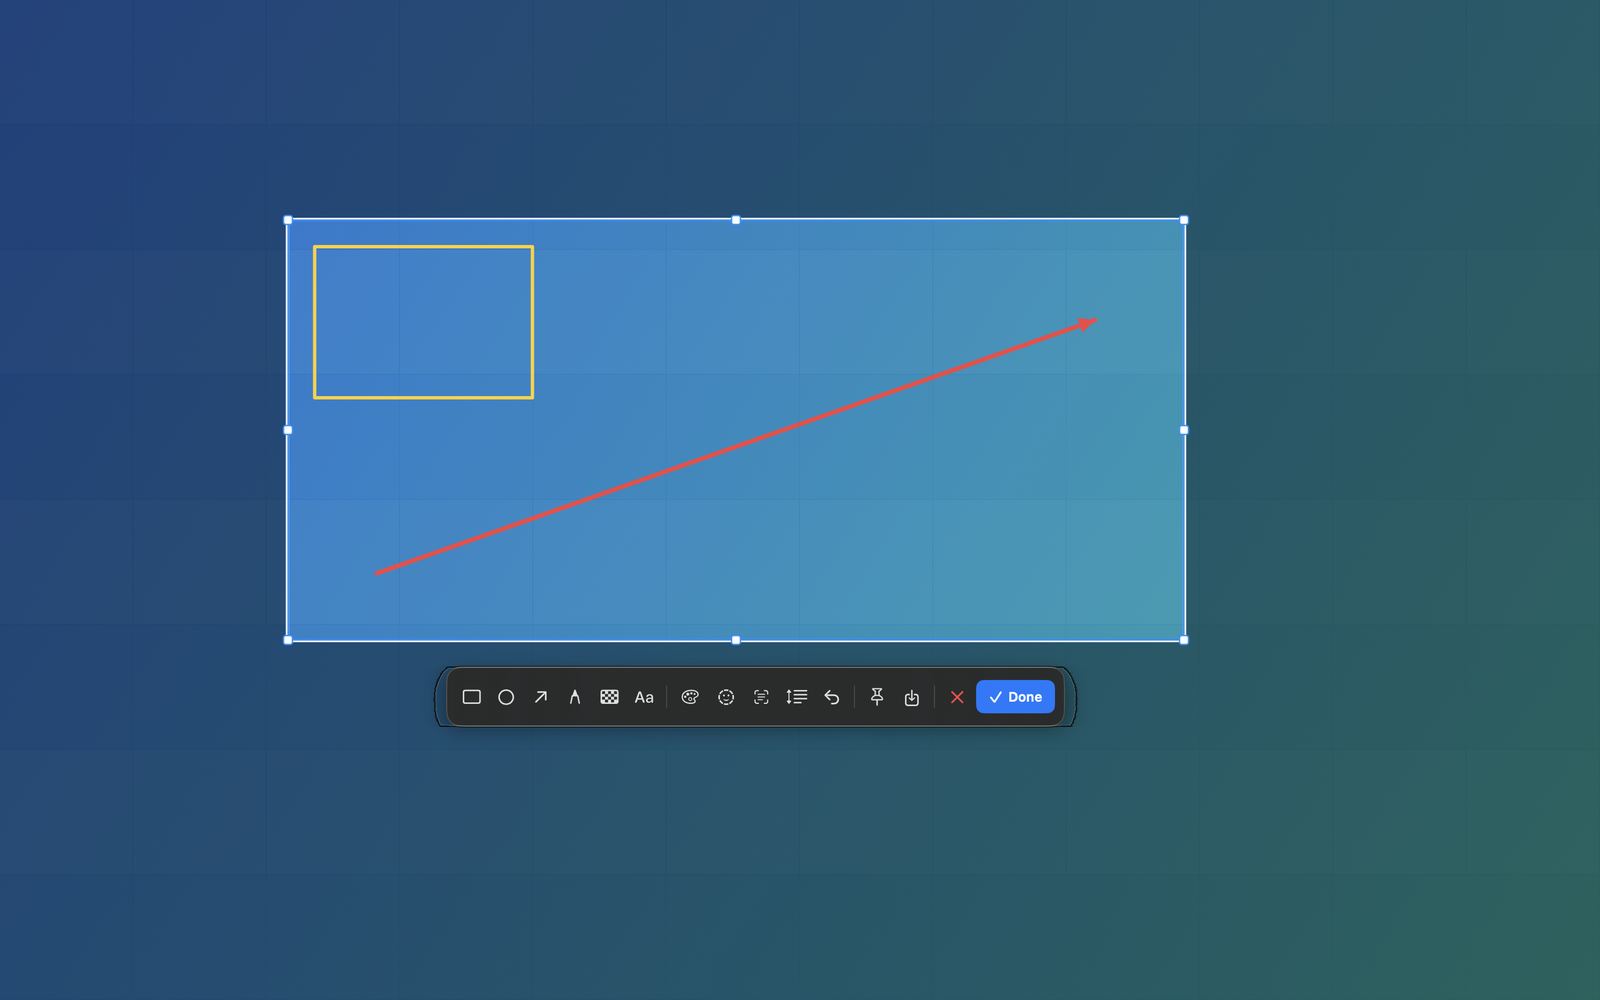
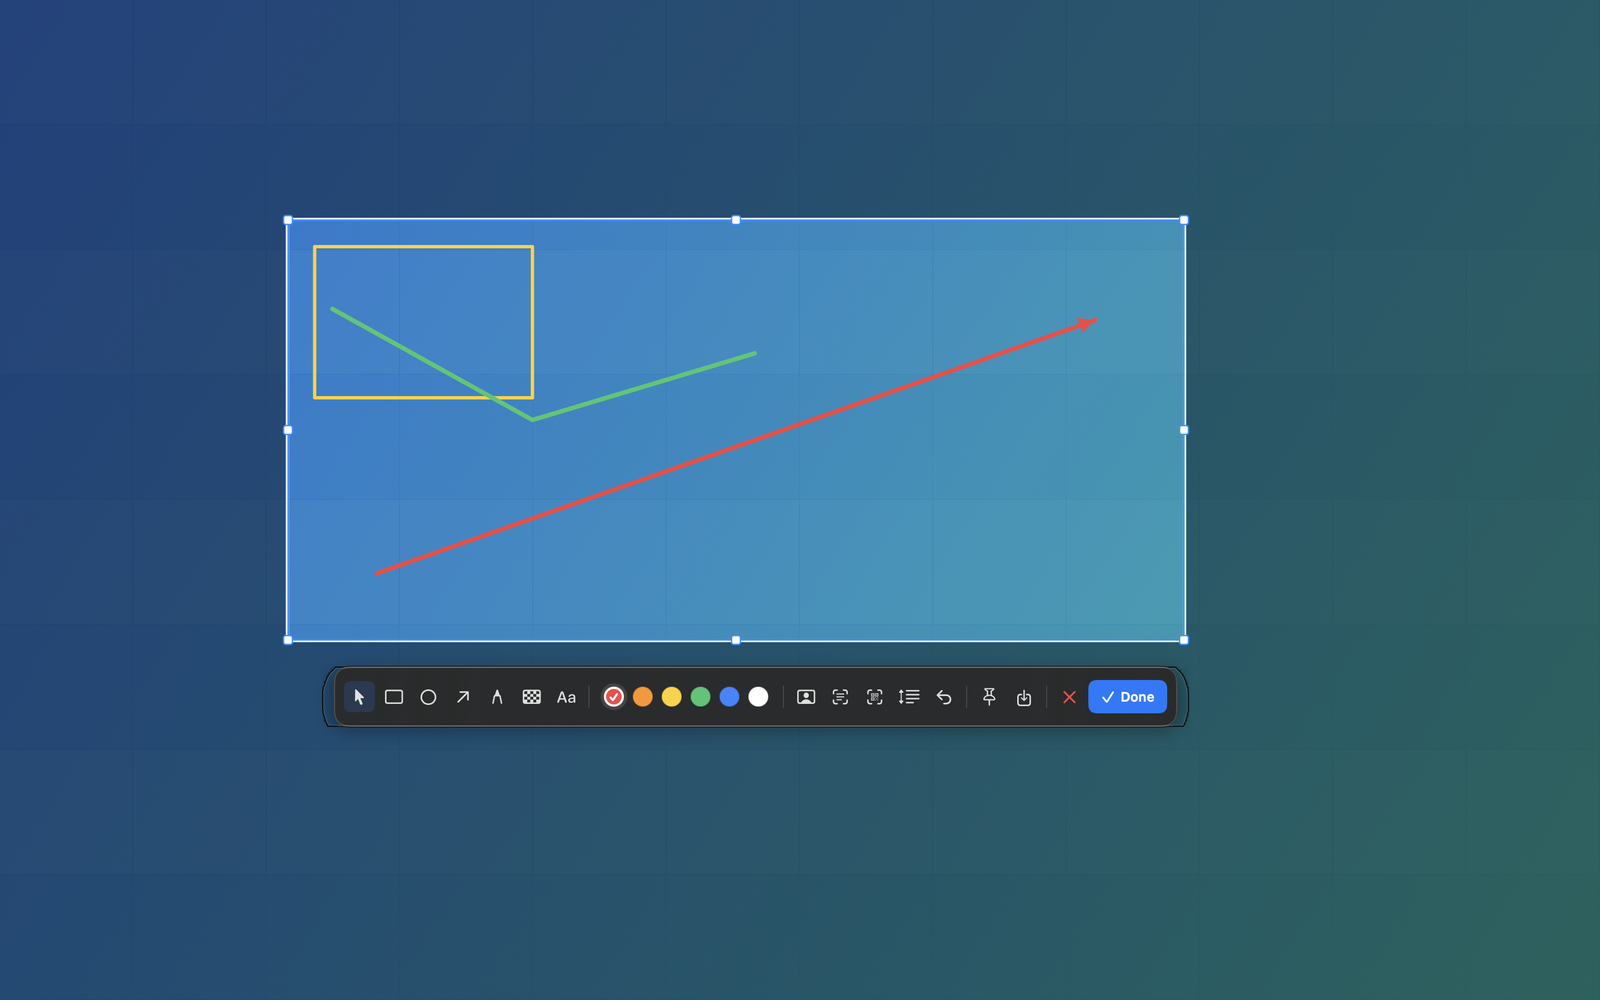
Fix selection dragging, add move tool and inline color palette, clarify AI mask

diff --git a/Sources/ShotDesk/Windows/ToastController.swift b/Sources/ShotDesk/Windows/ToastController.swift
@@ -1,0 +1,90 @@
+import AppKit
+import SwiftUI
+
+private struct ToastView: View {
+    let message: String
+
+    var body: some View {
+        Text(message)
+            .font(.system(size: 12.5, weight: .medium))
+            .foregroundStyle(.primary)
+            .lineLimit(2)
+            .multilineTextAlignment(.center)
+            .padding(.horizontal, 16)
+            .padding(.vertical, 9)
+            .background(
+                Capsule(style: .continuous)
+                    .fill(.ultraThinMaterial)
+                    .overlay(
+                        Capsule(style: .continuous)
+                            .strokeBorder(Color.white.opacity(0.18), lineWidth: 1)
+                    )
+                    .shadow(color: .black.opacity(0.22), radius: 10, y: 4)
+            )
+            .padding(6)
+    }
+}
+
+/// A small non-activating HUD used for short feedback such as "no faces
+/// detected" or "text copied". It never steals focus from the overlay.
+final class ToastController {
+    static let shared = ToastController()
+
+    private var panel: NSPanel?
+    private var hideWorkItem: DispatchWorkItem?
+
+    func show(_ message: String, duration: TimeInterval = 1.8) {
+        guard !message.isEmpty else { return }
+        DispatchQueue.main.async {
+            self.hideWorkItem?.cancel()
+            self.panel?.orderOut(nil)
+            self.panel?.close()
+
+            let panel = NSPanel(
+                contentRect: CGRect(x: 0, y: 0, width: 320, height: 52),
+                styleMask: [.borderless, .nonactivatingPanel],
+                backing: .buffered,
+                defer: false
+            )
+            panel.level = NSWindow.Level(rawValue: NSWindow.Level.statusBar.rawValue + 4)
+            panel.collectionBehavior = [.canJoinAllSpaces, .fullScreenAuxiliary, .stationary, .ignoresCycle]
+            panel.isOpaque = false
+            panel.backgroundColor = .clear
+            panel.hasShadow = false
+            panel.isMovable = false
+            panel.isReleasedWhenClosed = false
+            panel.hidesOnDeactivate = false
+            panel.contentView = NSHostingView(rootView: ToastView(message: message))
+
+            if let visible = NSScreen.main?.visibleFrame {
+                panel.setFrameOrigin(
+                    NSPoint(
+                        x: visible.midX - panel.frame.width / 2,
+                        y: visible.maxY - panel.frame.height - 58
+                    )
+                )
+            }
+            panel.alphaValue = 0
+            panel.orderFrontRegardless()
+            NSAnimationContext.runAnimationGroup { context in
+                context.duration = 0.15
+                panel.animator().alphaValue = 1
+            }
+            self.panel = panel
+
+            let item = DispatchWorkItem { [weak self, weak panel] in
+                guard let panel else { return }
+                NSAnimationContext.runAnimationGroup({ context in
+                    context.duration = 0.2
+                    panel.animator().alphaValue = 0
+                }, completionHandler: {
+                    panel.orderOut(nil)
+                    panel.close()
+                    if self?.panel === panel { self?.panel = nil }
+                })
+            }
+            self.hideWorkItem = item
+            DispatchQueue.main.asyncAfter(deadline: .now() + duration, execute: item)
+        }
+    }
+}

diff --git a/Sources/ShotDesk/Views/ToolbarView.swift b/Sources/ShotDesk/Views/ToolbarView.swift
@@ -5,7 +5,7 @@ import ShotDeskCore
 struct ToolbarView: View {
     @ObservedObject var model: ToolbarModel
 
-    private let tools: [CaptureTool] = [.rectangle, .ellipse, .arrow, .pen, .mosaic, .text]
+    private let tools: [CaptureTool] = [.none, .rectangle, .ellipse, .arrow, .pen, .mosaic, .text]
 
     var body: some View {
         HStack(spacing: 3) {
@@ -15,31 +15,11 @@ struct ToolbarView: View {
 
             divider
 
-            Menu {
-                ForEach(RGBAColor.palette, id: \.self) { color in
-                    Button {
-                        model.pick(color)
-                    } label: {
-                        Label {
-                            Text(colorName(color))
-                        } icon: {
-                            Image(systemName: "circle.fill").foregroundStyle(Color(nsColor: color.nsColor))
-                        }
-                    }
-                }
-            } label: {
-                Image(systemName: "paintpalette")
-                    .font(.system(size: 14, weight: .medium))
-                    .foregroundStyle(Color(nsColor: model.color.nsColor))
-                    .frame(width: 28, height: 28)
-                    .contentShape(Rectangle())
-            }
-            .menuStyle(.borderlessButton)
-            .menuIndicator(.hidden)
-            .help(L10n.color)
-            .frame(width: 30)
+            colorPalette
 
-            toolButton(symbol: "face.dashed", title: L10n.aiMask) {
+            divider
+
+            toolButton(symbol: "person.crop.rectangle", title: L10n.aiMask) {
                 model.onAIMask?()
             }
 
@@ -106,6 +86,40 @@ struct ToolbarView: View {
             .fill(Color.primary.opacity(0.15))
             .frame(width: 1, height: 20)
             .padding(.horizontal, 3)
+    }
+
+    private var colorPalette: some View {
+        HStack(spacing: 2) {
+            ForEach(RGBAColor.palette, id: \.self) { color in
+                Button {
+                    model.pick(color)
+                } label: {
+                    ZStack {
+                        Circle()
+                            .fill(Color(nsColor: color.nsColor))
+                        Circle()
+                            .strokeBorder(Color.black.opacity(0.22), lineWidth: 0.5)
+                        if model.color == color {
+                            Circle()
+                                .strokeBorder(Color.white, lineWidth: 2)
+                            Image(systemName: "checkmark")
+                                .font(.system(size: 8, weight: .black))
+                                .foregroundStyle(color == .white ? Color.black : Color.white)
+                        }
+                    }
+                    .frame(width: 18, height: 18)
+                    .padding(3)
+                    .background(
+                        Circle()
+                            .fill(model.color == color ? Color.white.opacity(0.12) : Color.clear)
+                    )
+                    .contentShape(Circle())
+                }
+                .buttonStyle(.plain)
+                .help(colorName(color))
+            }
+        }
+        .padding(.horizontal, 4)
     }
 
     private func toolButton(_ tool: CaptureTool) -> some View {

diff --git a/Sources/ShotDesk/Services/CaptureSession.swift b/Sources/ShotDesk/Services/CaptureSession.swift
@@ -224,8 +224,12 @@ final class CaptureSession: NSObject, NSTextFieldDelegate {
                 to: canvasBounds
             )
         case .moving(let last, let original):
+            // Apply each incremental delta to the current rect. Using the
+            // original rect with an incremental delta would only move by the
+            // final mouse step.
             let delta = CGPoint(x: point.x - last.x, y: point.y - last.y)
-            selection = SelectionGeometry.moved(original, by: delta, within: canvasBounds)
+            let current = selection ?? original
+            selection = SelectionGeometry.moved(current, by: delta, within: canvasBounds)
             self.dragState = .moving(last: point, original: original)
             updateToolbarPosition()
         case .resizing(let handle, let original):
@@ -277,6 +281,15 @@ final class CaptureSession: NSObject, NSTextFieldDelegate {
         }
         self.selection = selection
         hoverWindowRect = nil
+        // Start in move/select mode so dragging inside the new selection
+        // moves it instead of drawing with a previously used tool.
+        activeTool = .none
+        toolbarModel.sync(
+            tool: activeTool,
+            color: strokeColor,
+            canUndo: annotations.canUndo,
+            hasSelection: true
+        )
         showToolbar()
         redraw()
     }
@@ -616,9 +629,16 @@ final class CaptureSession: NSObject, NSTextFieldDelegate {
 
     private func applyAIMask() {
         guard let selection, !isFinishing else { return }
-        guard let image = renderFinalImage(includeAnnotations: false) else { return }
+        guard let image = renderFinalImage(includeAnnotations: false) else {
+            ToastController.shared.show(L10n.maskFailed)
+            return
+        }
         VisionAnalyzer.detectFaces(in: image) { [weak self] faces in
-            guard let self, !faces.isEmpty else { return }
+            guard let self else { return }
+            guard !faces.isEmpty else {
+                ToastController.shared.show(L10n.noFacesDetected)
+                return
+            }
             for face in faces {
                 let topY = 1 - face.maxY
                 let global = CGRect(
@@ -644,6 +664,7 @@ final class CaptureSession: NSObject, NSTextFieldDelegate {
                 hasSelection: self.selection != nil
             )
             self.redraw()
+            ToastController.shared.show(L10n.facesMasked)
         }
     }
 

diff --git a/Sources/ShotDesk/AppDelegate.swift b/Sources/ShotDesk/AppDelegate.swift
@@ -358,7 +358,7 @@ final class AppDelegate: NSObject, NSApplicationDelegate {
             VisionAnalyzer.recognizeText(in: image) { [weak self] text in
                 guard let self else { return }
                 guard !text.isEmpty else {
-                    self.showInfo(L10n.recognizeText, L10n.noText)
+                    ToastController.shared.show(L10n.noText)
                     return
                 }
                 self.copyText(text)
@@ -368,7 +368,7 @@ final class AppDelegate: NSObject, NSApplicationDelegate {
             VisionAnalyzer.detectQRCode(in: image) { [weak self] values in
                 guard let self else { return }
                 guard let first = values.first else {
-                    self.showInfo(L10n.scanQRCode, L10n.noQRCode)
+                    ToastController.shared.show(L10n.noQRCode)
                     return
                 }
                 self.copyText(first)

diff --git a/Sources/ShotDesk/L10n.swift b/Sources/ShotDesk/L10n.swift
@@ -65,7 +65,11 @@ enum L10n {
     static var stitchFailed: String { t("拼接失败：没有找到重叠区域", "Could not stitch: no overlapping region found") }
     static var longScreenshot: String { t("长截图", "Long Screenshot") }
     static var recognize: String { t("识别", "Recognize") }
-    static var aiMask: String { t("AI 打码", "AI Masking") }
+    static var aiMask: String { t("AI 人脸打码", "AI Face Masking") }
+    static var noFacesDetected: String { t("未检测到人脸", "No faces detected") }
+    static var facesMasked: String { t("已为人脸打码", "Faces masked") }
+    static var maskFailed: String { t("打码失败", "Masking failed") }
+    static var moveSelect: String { t("移动 / 选择", "Move / Select") }
     static var undo: String { t("撤销", "Undo") }
     static var text: String { t("文字", "Text") }
     static var mosaic: String { t("马赛克", "Mosaic") }

diff --git a/Sources/ShotDesk/Windows/ToolbarPanelController.swift b/Sources/ShotDesk/Windows/ToolbarPanelController.swift
@@ -13,7 +13,7 @@ final class ToolbarPanelController {
 
     init(model: ToolbarModel) {
         panel = ToolbarPanel(
-            contentRect: CGRect(x: 0, y: 0, width: 672, height: 54),
+            contentRect: CGRect(x: 0, y: 0, width: 780, height: 54),
             styleMask: [.borderless, .nonactivatingPanel],
             backing: .buffered,
             defer: false
@@ -29,7 +29,7 @@ final class ToolbarPanelController {
         panel.becomesKeyOnlyIfNeeded = true
         panel.contentView = NSHostingView(
             rootView: ToolbarView(model: model)
-                .frame(width: 672, height: 54)
+                .frame(width: 780, height: 54)
         )
     }
 

diff --git a/Sources/ShotDesk/Services/CaptureTool.swift b/Sources/ShotDesk/Services/CaptureTool.swift
@@ -24,7 +24,7 @@ enum CaptureTool: String, CaseIterable {
 
     var title: String {
         switch self {
-        case .none: return L10n.t("选择", "Select")
+        case .none: return L10n.moveSelect
         case .rectangle: return L10n.rectangle
         case .ellipse: return L10n.ellipse
         case .arrow: return L10n.arrow

diff --git a/README.md b/README.md
@@ -15,8 +15,9 @@ has no Dock icon and no network code.
 - **Full-screen overlay** — dimmed desktop, bright selection, eight resize
   handles, crosshair, pixel magnifier, live colour/coordinate readout.
 - **Window capture** — hover highlights the topmost window; click captures it.
-- **Annotations** — rectangle, ellipse, arrow, freehand brush, mosaic brush,
-  text, undo, six-colour palette, AI face masking.
+- **Annotations** — move/select, rectangle, ellipse, arrow, freehand brush,
+  mosaic brush, text, undo, a visible six-colour swatch palette, and AI face
+  masking (with a "no faces detected" toast instead of a silent no-op).
 - **Copy / save / pin** — `⌘C`, `⌘S`, or the pin button. Pinned shots float on
   top of all apps and can be copied, saved, dragged, or closed with a right-click.
 - **Scrolling screenshot** — select a region, click the scroll tool, scroll the
@@ -77,9 +78,10 @@ its own bundle id and reopens the pane.
 | Capture | `⌃⌘A`, or left-click the menu-bar icon |
 | Select region | Drag anywhere |
 | Capture a window | Click the highlighted window |
-| Move selection | Drag inside it with the pointer tool |
+| Move selection | Select the hand/pointer tool (the first toolbar button, active by default), then drag inside the selection |
 | Resize selection | Drag one of the eight handles |
-| Rectangle / ellipse / arrow / brush / mosaic / text | Pick a tool, then drag |
+| Rectangle / ellipse / arrow / brush / mosaic / text | Pick a tool, then drag; the stroke is previewed live |
+| Change drawing colour | Click a colour swatch; the selected one gets a white ring and checkmark |
 | Undo | `⌘Z` or the undo button |
 | Copy and close | `Return`, `⌘C`, or **Done** |
 | Save as PNG | `⌘S` or the save button |

diff --git a/STATUS.md b/STATUS.md
@@ -32,6 +32,12 @@ With the screen unlocked and Screen Recording granted:
 4. Clicking the **text recognition** toolbar button closed the overlay, copied
    the recognized text to the clipboard, and opened the floating
    **Recognize Text** result window.
+5. With the move/pointer tool active, dragging inside the selection moved the
+   whole selection (and the toolbar followed it).
+6. The colour palette showed all six swatches; clicking blue moved the white
+   ring and checkmark to blue.
+7. Clicking the AI face-masking button on a face-free selection showed the
+   "No faces detected" toast instead of doing nothing.
 
 ## Still worth a manual pass
 

diff --git a/AGENTS.md b/AGENTS.md
@@ -149,7 +149,8 @@ If the shortcut does nothing:
   can produce a seam.
 - **AI features are local.** OCR/QR/face detection use Apple Vision. There is
   no "Ask AI" cloud feature; WeChat's "问 AI" uses Tencent Yuanbao and is not
-  reproduced.
+  reproduced. The AI button is **face masking**, not an emoji/sticker tool; if
+  no face is detected it shows a toast.
 - **Pins are session-only.** Pinned images disappear when ShotDesk quits.
 - **No history.** Only the last screenshot is kept in memory for the menu.
 
